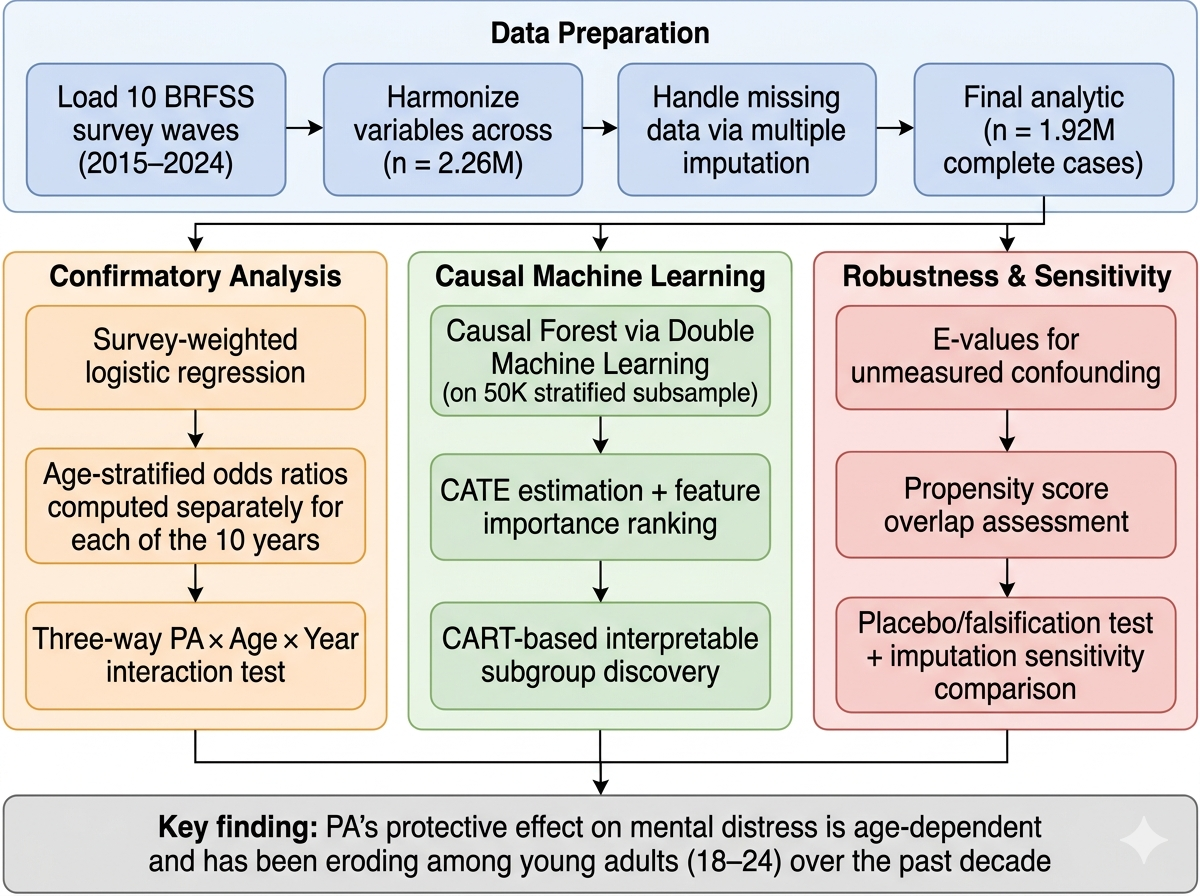
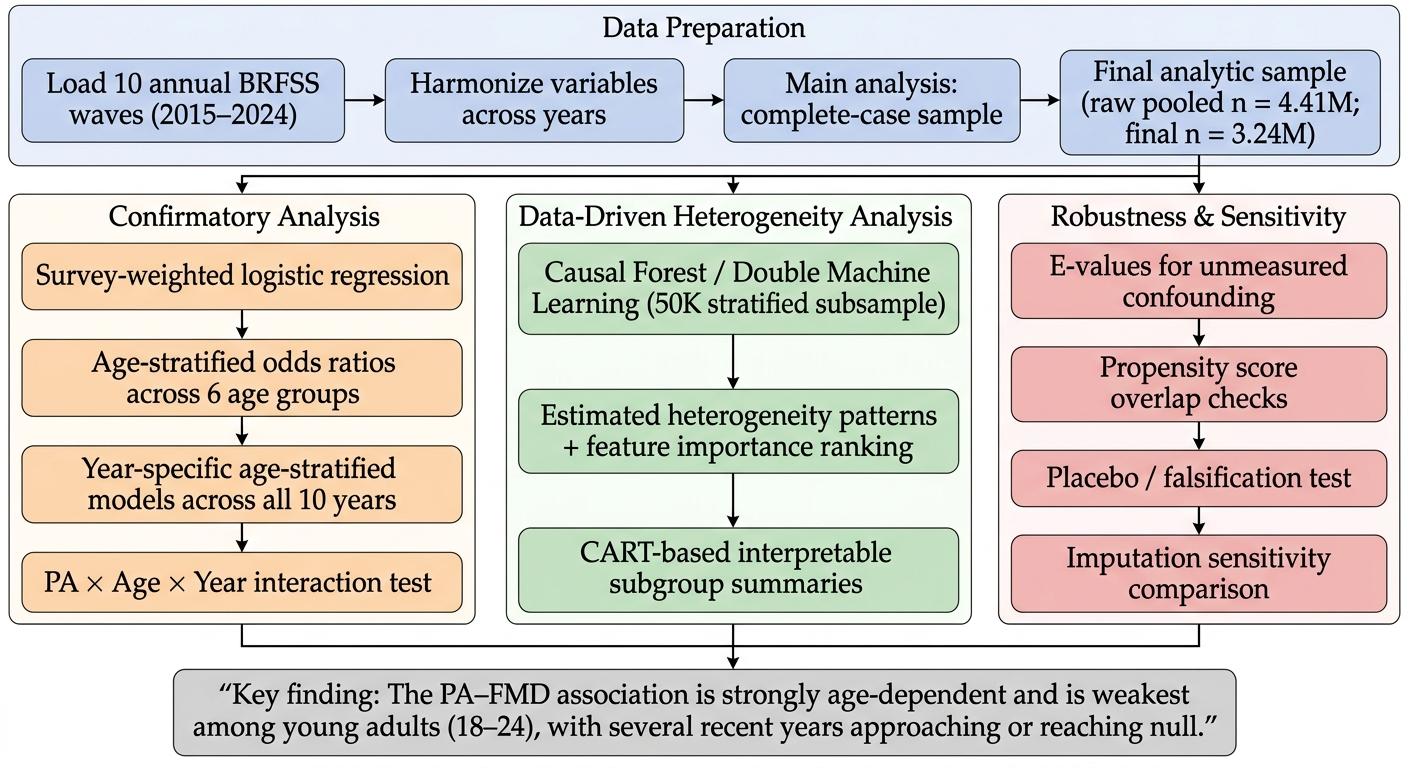
Update README and clean up repository
- README: updated pipeline image, added results table, improved structure
- data/README: expanded to all 10 years with harmonization notes
- Removed stale duplicates: pipeline.png, pipeline_new.png, root references.bib

Made-with: Cursor

diff --git a/README.md b/README.md
@@ -1,44 +1,56 @@
 # Age-Dependent Heterogeneity in the Association Between Physical Activity and Mental Distress
 
-A causal machine learning analysis of 3.2 million U.S. adults from the Behavioral Risk Factor Surveillance System (BRFSS), 2015–2024.
+**A causal machine learning analysis of 3.2 million U.S. adults from the Behavioral Risk Factor Surveillance System (BRFSS), 2015--2024.**
+
+> Yuan Shan, Department of Statistical Science, Duke University
 
 ## Key Findings
 
-1. **Physical activity (PA) is associated with 38% lower odds of frequent mental distress (FMD)** overall (adjusted OR = 0.622, 95% CI: 0.612–0.632), consistent with prior large-scale evidence.
+1. **Physical activity (PA) is associated with 38% lower odds of frequent mental distress (FMD)** overall (adjusted OR = 0.622, 95% CI: 0.612--0.632), consistent with prior large-scale evidence.
 
-2. **The protective effect is profoundly age-dependent**: OR ranges from 0.89 (18–24, weak) to 0.50 (55–64, strong), forming a monotonic gradient not previously documented in the literature.
+2. **The protective effect is profoundly age-dependent**: OR ranges from 0.89 (18--24, weak) to 0.50 (55--64, strong), forming a monotonic gradient that has not been previously documented in the literature.
 
-3. **The young-adult PA effect has been eroding over the decade**: the 18–24 PA OR reached null (1.007) in both 2018 and 2024, paralleling the deepening youth mental health crisis.
+3. **The young-adult PA effect has been eroding over the decade**: the 18--24 PA OR reached null (OR = 1.007) in both 2018 and 2024, paralleling the deepening youth mental health crisis.
 
 4. **Causal Forest analysis confirms age as the dominant driver** of treatment effect heterogeneity (feature importance = 0.39, 2.5x the next feature), validating the finding through nonparametric causal machine learning.
 
 ## Analytical Pipeline
 
-![Analytical Pipeline](figures/pipeline.png)
+![Analytical Pipeline](arxiv/figures/figure_pipeline.png)
+
+## Age-Stratified Results (Pooled 2015--2024, n = 3,242,218)
+
+| Age Group | PA Odds Ratio | 95% CI | Interpretation |
+|-----------|:------------:|--------|----------------|
+| 18--24 | 0.892 | (0.863, 0.923) | Weak protection (11% lower odds) |
+| 25--34 | 0.799 | (0.781, 0.817) | |
+| 35--44 | 0.665 | (0.652, 0.678) | |
+| 45--54 | 0.529 | (0.520, 0.539) | |
+| 55--64 | 0.505 | (0.497, 0.513) | Strong protection (50% lower odds) |
+| 65+ | 0.533 | (0.526, 0.541) | |
 
 ## Repository Structure
 
 ```
-├── arxiv/                  # Paper (LaTeX → PDF, arXiv-ready)
-│   ├── main.tex                # Main LaTeX source
-│   ├── main.bbl                # Pre-compiled bibliography
-│   ├── references.bib          # BibTeX source (25 citations)
-│   └── figures/                # All paper figures (PNG)
+├── arxiv/                      # Paper (LaTeX -> PDF, arXiv-ready)
+│   ├── main.tex                    # Main LaTeX source
+│   ├── main.bbl                    # Pre-compiled bibliography
+│   ├── references.bib              # BibTeX source (25 citations)
+│   └── figures/                    # All paper figures (PNG)
 │
-├── src/                    # Analysis pipeline (run in order)
-│   ├── 01_data_harmonize.py    # Load & harmonize 10 BRFSS years
-│   ├── 02_imputation.py        # Imputation for missing income
-│   ├── 03_survey_logistic.py   # Survey-weighted logistic regression
-│   ├── 04_temporal_validation.py  # Year-by-year age-stratified ORs
-│   ├── 05_causal_forest.py     # CausalForestDML (HTE discovery)
-│   ├── 06_robustness.py        # E-values, propensity overlap, placebo
-│   └── 07_figures.py           # Publication-quality figures
+├── src/                        # Analysis pipeline (run in order)
+│   ├── 01_data_harmonize.py        # Load & harmonize 10 annual BRFSS waves
+│   ├── 02_imputation.py            # Conditional imputation for missing income
+│   ├── 03_survey_logistic.py       # Survey-weighted logistic regression
+│   ├── 04_temporal_validation.py   # Year-by-year age-stratified ORs
+│   ├── 05_causal_forest.py         # CausalForestDML (HTE discovery)
+│   ├── 06_robustness.py            # E-values, propensity overlap, placebo test
+│   └── 07_figures.py               # Publication-quality figures
 │
-├── data/                   # Raw & processed data (see data/README.md)
-├── tables/                 # Analysis outputs (CSV, JSON)
-├── figures/                # Publication figures (PNG)
-├── dcc/                    # SLURM job script for Duke Compute Cluster
-└── requirements.txt        # Python dependencies
+├── data/                       # Raw & processed data (see data/README.md)
+├── tables/                     # Analysis outputs (CSV, JSON)
+├── dcc/                        # SLURM job script for Duke Compute Cluster
+└── requirements.txt            # Python dependencies
 ```
 
 ## Reproducing the Analysis
@@ -51,39 +63,50 @@ pip install -r requirements.txt
 
 ### Data
 
-Download the 10 annual BRFSS XPT files (2015–2024) as described in [`data/README.md`](data/README.md).
+Download the 10 annual BRFSS XPT files (2015--2024) from the CDC as described in [`data/README.md`](data/README.md).
 
 ### Pipeline
 
 Run scripts sequentially from the project root:
 
 ```bash
-python src/01_data_harmonize.py     # ~4 min (loads 10 × 1GB files)
-python src/02_imputation.py         # ~5 sec
-python src/03_survey_logistic.py    # ~3 min
+python src/01_data_harmonize.py      # ~4 min  — loads 10 x 1GB XPT files
+python src/02_imputation.py          # ~5 sec
+python src/03_survey_logistic.py     # ~3 min
 python src/04_temporal_validation.py # ~1 min
-python src/05_causal_forest.py      # ~60 min (or use dcc/dcc_job.sh on cluster)
-python src/06_robustness.py         # ~2 min
-python src/07_figures.py            # ~5 sec
+python src/05_causal_forest.py       # ~60 min — use dcc/dcc_job.sh on HPC cluster
+python src/06_robustness.py          # ~2 min
+python src/07_figures.py             # ~5 sec
 ```
 
-Step 5 (Causal Forest) is computationally intensive. A SLURM job script for HPC clusters is provided in `dcc/dcc_job.sh`.
+Step 5 (Causal Forest) is computationally intensive. A SLURM job script for HPC clusters is provided in [`dcc/dcc_job.sh`](dcc/dcc_job.sh).
+
+### Compile Paper
+
+The paper source is in `arxiv/`. Compile with any standard TeX distribution:
+
+```bash
+cd arxiv && pdflatex main && bibtex main && pdflatex main && pdflatex main
+```
+
+Or upload `arxiv/` to [Overleaf](https://www.overleaf.com/) for online compilation.
 
 ## Methods
 
-- **Survey-weighted logistic regression** with cluster-robust standard errors on 3.24M complete-case observations
-- **Causal Forest via Double Machine Learning** (EconML `CausalForestDML`) with HistGradientBoosting nuisance models
-- **Temporal validation** across 10 independent annual BRFSS waves (2015–2024)
-- **Sensitivity analyses**: E-values for unmeasured confounding, propensity score overlap, placebo/falsification test, complete-case vs. imputation comparison
+| Method | Purpose | Sample |
+|--------|---------|--------|
+| Survey-weighted logistic regression | Confirmatory age-stratified effect estimates | Full (n = 3.24M) |
+| Causal Forest via Double ML (EconML) | Data-driven HTE discovery + feature importance | Subsample (n = 50K) |
+| Temporal validation | Year-by-year replication across 10 annual waves | Full, per-year |
+| E-values | Sensitivity to unmeasured confounding | Full |
+| Propensity score overlap | Positivity assumption check | Subsample (n = 200K) |
+| Placebo test | Falsification via predetermined outcome | Full |
+| Imputation comparison | Sensitivity to missing income data | Full vs. imputed |
 
 ## Data
 
-All data are publicly available from the CDC BRFSS:
+All data are publicly available from the CDC BRFSS Annual Survey Data repository:
 https://www.cdc.gov/brfss/annual_data/annual_data.htm
-
-## Author
-
-Yuan Shan, Department of Statistical Science, Duke University
 
 ## License
 

diff --git a/data/README.md b/data/README.md
@@ -4,30 +4,42 @@ This study uses the **Behavioral Risk Factor Surveillance System (BRFSS)**, a CD
 
 ## Required Raw Data
 
-Download the SAS Transport (XPT) files from the CDC and place them in this directory:
+Download all 10 annual SAS Transport (XPT) files from the CDC and place them in this directory:
 
 | File | Year | Download URL |
 |------|------|-------------|
 | `LLCP2015.XPT` | 2015 | https://www.cdc.gov/brfss/annual_data/2015/files/LLCP2015XPT.zip |
+| `LLCP2016.XPT` | 2016 | https://www.cdc.gov/brfss/annual_data/2016/files/LLCP2016XPT.zip |
 | `LLCP2017.XPT` | 2017 | https://www.cdc.gov/brfss/annual_data/2017/files/LLCP2017XPT.zip |
+| `LLCP2018.XPT` | 2018 | https://www.cdc.gov/brfss/annual_data/2018/files/LLCP2018XPT.zip |
 | `LLCP2019.XPT` | 2019 | https://www.cdc.gov/brfss/annual_data/2019/files/LLCP2019XPT.zip |
+| `LLCP2020.XPT` | 2020 | https://www.cdc.gov/brfss/annual_data/2020/files/LLCP2020XPT.zip |
 | `LLCP2021.XPT` | 2021 | https://www.cdc.gov/brfss/annual_data/2021/files/LLCP2021XPT.zip |
+| `LLCP2022.XPT` | 2022 | https://www.cdc.gov/brfss/annual_data/2022/files/LLCP2022XPT.zip |
 | `LLCP2023.XPT` | 2023 | https://www.cdc.gov/brfss/annual_data/2023/files/LLCP2023XPT.zip |
 | `LLCP2024.XPT` | 2024 | https://www.cdc.gov/brfss/annual_data/2024/files/LLCP2024XPT.zip |
 
-Each file is approximately 1 GB. After unzipping, place the `.XPT` files directly in this `data/` directory.
+Each file is approximately 1 GB. After unzipping, place the `.XPT` files directly in this directory.
 
 ## Processed Data
 
-Running `src/01_data_harmonize.py` produces the following intermediate files (git-ignored):
+Running `src/01_data_harmonize.py` produces the following intermediate files (git-ignored due to size):
 
-- `pooled_raw.parquet` — All 6 years harmonized, before complete-case filtering
-- `pooled_cc.parquet` — Complete-case analytic sample (1.92M observations)
-- `pooled_imputed.parquet` — With imputed income values (from `src/02_imputation.py`)
-- `cate_individual.parquet` — Individual-level CATE estimates (from `src/05_causal_forest.py`)
-- `propensity_scores.parquet` — Propensity scores by age group (from `src/06_robustness.py`)
+| File | Description | Rows |
+|------|-------------|------|
+| `pooled_raw.parquet` | All 10 years harmonized, before complete-case filtering | 3,803,597 |
+| `pooled_cc.parquet` | Complete-case analytic sample | 3,242,218 |
+| `pooled_imputed.parquet` | With imputed income values (from `02_imputation.py`) | 3,803,597 |
+| `cate_individual.parquet` | Individual-level CATE estimates (from `05_causal_forest.py`) | 49,998 |
+| `propensity_scores.parquet` | Propensity scores by age group (from `06_robustness.py`) | 3,242,218 |
+
+## Variable Harmonization Notes
+
+- **Sex**: Variable name changed across years (`SEX` -> `SEX1` -> `SEXVAR`); all harmonized to `SEXVAR`.
+- **Race/ethnicity**: 2022 renamed `_RACEGR3` to `_RACEGR4` with identical coding; harmonized back to `_RACEGR3`.
+- **Income**: Pre-2021 uses `_INCOMG` (5 levels); 2021+ uses `_INCOMG1` (7 levels). Harmonized to a common 5-level scale by collapsing upper categories.
 
 ## Documentation
 
-- `Overview_2024-508.pdf` — BRFSS 2024 survey overview
-- `Complex-Sampling-Weights-and-Preparing-Module-Data-for-Analysis-2024-508.pdf` — Sampling design documentation
+- `Overview_2024-508.pdf` -- BRFSS 2024 survey overview
+- `Complex-Sampling-Weights-and-Preparing-Module-Data-for-Analysis-2024-508.pdf` -- Sampling design documentation
